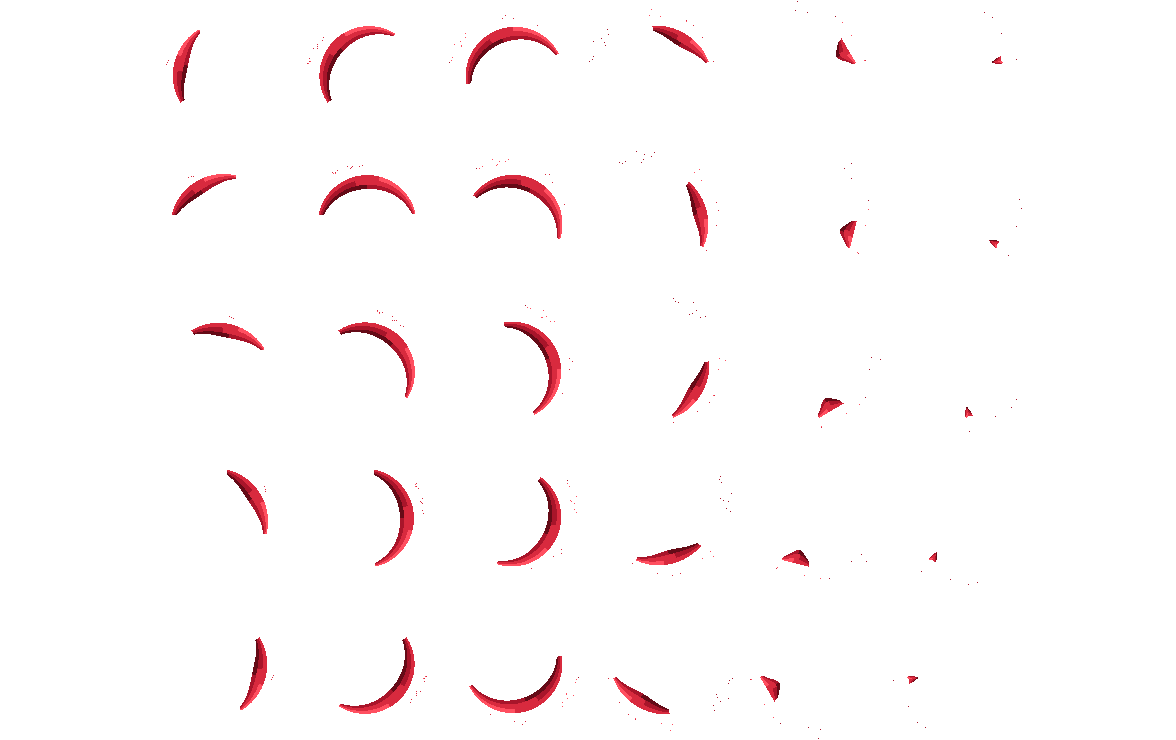
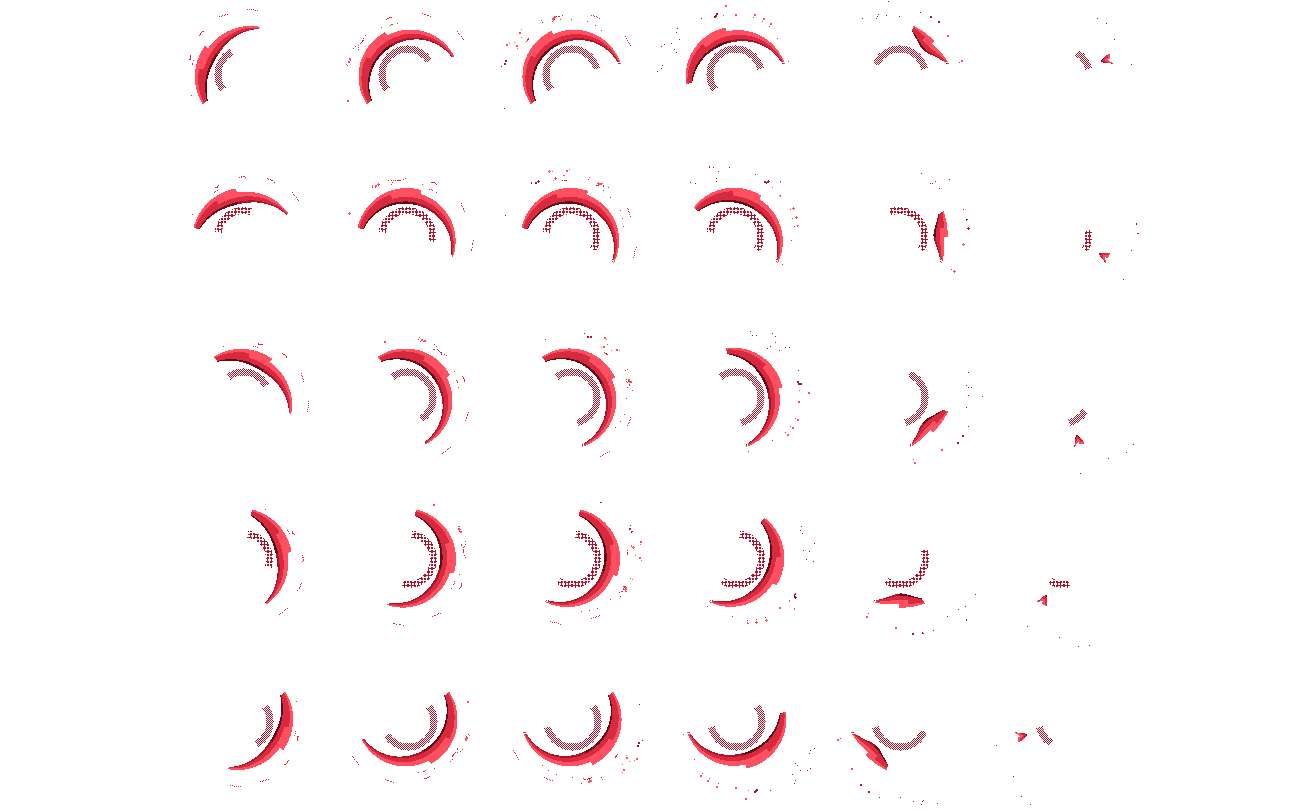
혈검 검기를 굵고 밝은 궤적과 잔상 · 핏방울로 다시 뽑고 맞은 적마다 베인 자리 연출을 더한다
Claude-Session: https://claude.ai/code/session_01Q8g6pZZRKRc2eJ1UxAQnjf

diff --git a/design/effects/pixelfx/blood-job/blood-form.js b/design/effects/pixelfx/blood-job/blood-form.js
@@ -8,6 +8,7 @@
 //   hook   — 혈쇄 갈고리(11월 15일). 0,0 = 쥔 손(form) · 갈고리 머리 뒤끝(head). +x 로 날아간다. form 손에서 갈고리가 생김 · head 날아가는 머리
 //   link   — 사슬 마디 하나. 0,0 = 마디 가운데 · +x 가 사슬 방향. variant 0 둥근 마디 · 1 옆에서 본 마디 · 2 · 3 팽팽한(밝은) 마디
 //   drop   — 사슬이 핏방울로 풀린다(마디 하나 자리에서 아래로 떨어진다)
+//   cut    — 혈검에 맞은 자리(11월 16일). 0,0 = 맞은 자리. 사선 하나가 그어지고 갈라진 자리에서 피가 터진다
 //   core   — 적혈탄 압축 구슬(11월 15일 사용자 "압축되는 거 크기 크게 줄여줘"). 0,0 = 손끝. tier 0 · 1 · 2 마다 더 작고 단단해지고 둘레를 도는 방울이 는다(u = 한 바퀴)
 // 외곽선은 C[6] · 가장 밝은 빛은 C[7] 만 쓴다 — 게임이 이 두 색을 따로 떼어(밝은 외곽 시트) 어두운 연마 색에서도 외곽을 밝게 그린다.
 // 쓰는 법: pixelfx 저장소 src/fx/nature/blood-form.js 로 복사하고 make-form.mjs 로 뽑는다.
@@ -118,42 +119,90 @@ function swordBreak(p, C, u, o) {
 }
 
 /* ── 혈검 궤적 ───────────────────────── */
-// 초승달 — 머리(지금 칼끝)가 a0 → a1 로 지나가고 꼬리가 뒤따라 옅어진다. 바깥 테두리는 밝게, 바깥으로 핏방울이 튄다
+// 초승달 — 머리(지금 칼끝)가 a0 → a1 로 지나가고 꼬리가 뒤따라 옅어진다. 바깥 날은 하얗게 달아오르고, 안쪽에 옅은 잔상 한 겹 ·
+// 머리에는 반짝임 · 바깥으로는 굵은 핏방울이 튀어 떨어진다(11월 16일 사용자 "검기가 밋밋해" — 굵기 · 밝기 · 튀는 피를 늘렸다)
 function crescent(p, C, R, W, a0, a1, u, tailLen, o, big) {
-  const head = lerp(a0, a1, ez(u / 0.7)), tail = lerp(a0, a1, ez((u - tailLen) / 0.7));
+  const head = lerp(a0, a1, ez(u / 0.42)), tail = lerp(a0, a1, ez((u - tailLen) / 0.5));
   if (u > 1) return;
   const lo = Math.min(head, tail), hi = Math.max(head, tail);
-  if (hi - lo < 0.02) return;
-  const fade = 1 - smooth(0.7, 1, u);
-  p.shade(-R - 2, -R - 2, R + 2, R + 2, (x, y, out) => {
-    const d = Math.hypot(x, y), a = Math.atan2(y, x);
-    if (a < lo || a > hi) return;
-    const s = (a - tail) / (head - tail || 1e-6);      // 0 꼬리 · 1 머리
-    const w = W * (0.25 + 0.75 * Math.sin(Math.PI * clamp(s * 0.95 + 0.05))) * (0.4 + 0.6 * fade);
-    if (d > R || d < R - w) return;
-    const v = (d - (R - w)) / w;                       // 0 안 · 1 바깥
-    if (v > 0.82) return C[s > 0.85 ? 7 : 6];
-    if (v > 0.55) return C[s > 0.6 ? 5 : 4];
-    if (v > 0.25) return C[s > 0.4 ? 4 : 3];
-    return s > 0.5 ? C[3] : C[2];
-  });
-  // 바깥으로 튀는 피
-  const n = big ? 16 : 9;
+  const fade = 1 - smooth(0.6, 1, u);
+  if (hi - lo >= 0.02) {
+    // 안쪽 잔상 — 본 궤적보다 조금 늦고 안쪽, 체크 무늬로 듬성듬성
+    const R2 = R - W - 3, tail2 = lerp(a0, a1, ez((u - tailLen * 1.2) / 0.5)), head2 = lerp(a0, a1, ez((u - 0.06) / 0.42));
+    const lo2 = Math.min(head2, tail2), hi2 = Math.max(head2, tail2);
+    p.shade(-R - 3, -R - 3, R + 3, R + 3, (x, y) => {
+      const X = x + 0.5, Y = y + 0.5, d = Math.hypot(X, Y), a = Math.atan2(Y, X);
+      if (a >= lo && a <= hi) {
+        const s = (a - tail) / (head - tail || 1e-6);    // 0 꼬리 · 1 머리
+        const w = W * (0.2 + 0.8 * Math.sin(Math.PI * clamp(s * 0.92 + 0.08))) * (0.45 + 0.55 * fade);
+        if (d <= R + 1 && d >= R - w) {
+          const v = (d - (R - w)) / Math.max(1, w);       // 0 안 · 1 바깥
+          if (d > R) return s > 0.45 ? C[6] : undefined;  // 날 밖 한 칸 — 밝은 외곽
+          if (v > 0.8) return C[s > 0.35 ? 7 : 6];        // 하얗게 달아오른 날
+          if (v > 0.6) return C[s > 0.5 ? 6 : 5];
+          if (v > 0.35) return C[s > 0.3 ? 5 : 4];
+          if (v > 0.12) return C[4];
+          return s > 0.5 ? C[3] : C[2];
+        }
+      }
+      if (a >= lo2 && a <= hi2 && d <= R2 && d >= R2 - Math.max(2, W * 0.35) && ((Math.floor(x) + Math.floor(y)) & 1)) return C[3];
+    });
+    // 머리 반짝임 — 칼끝 자리 십자 빛
+    if (u < 0.75) {
+      const hx = Math.cos(head) * (R - 1), hy = Math.sin(head) * (R - 1), L = big ? 4 : 3;
+      for (let k = -L; k <= L; k++) { p.px(hx + k, hy, Math.abs(k) < 2 ? C[7] : C[6]); p.px(hx, hy + k, Math.abs(k) < 2 ? C[7] : C[6]); }
+    }
+    // 속도선 — 날 바깥에서 머리 쪽으로 짧게 그은 가는 줄
+    for (let i = 0; i < (big ? 4 : 3); i++) {
+      const at = lerp(tail, head, 0.35 + 0.18 * i), r = R + 4 + 3 * i, len = 0.12 + 0.05 * i;
+      if (u > 0.55) break;
+      for (let q = 0; q < 1; q += 0.12) { const aa = at + (head > tail ? 1 : -1) * len * q; p.px(Math.cos(aa) * r, Math.sin(aa) * r, q > 0.6 ? C[6] : C[4]); }
+    }
+  }
+  // 바깥으로 튀는 굵은 피 — 날을 따라 생겨 바깥으로 날다가 아래로 떨어진다
+  const n = big ? 24 : 16;
   for (let i = 0; i < n; i++) {
-    const at = lerp(a0, a1, rand(o.seed, i, 31)), born = clamp((at - a0) / (a1 - a0 || 1e-6)) * 0.55;
+    const at = lerp(a0, a1, rand(o.seed, i, 31)), born = clamp((at - a0) / (a1 - a0 || 1e-6)) * 0.5;
     const age = u - born;
-    if (age <= 0 || age > 0.45) continue;
-    const r = R + 2 + (8 + 10 * rand(o.seed, i, 32)) * age / 0.45 * (big ? 1.4 : 1);
-    const x = Math.cos(at) * r, y = Math.sin(at) * r;
-    p.px(x, y, age < 0.15 ? C[6] : age < 0.3 ? C[5] : C[3]);
-    if (big && age < 0.2) p.px(x + Math.cos(at), y + Math.sin(at), C[4]);
+    if (age <= 0 || age > 0.5) continue;
+    const sp = (12 + 16 * rand(o.seed, i, 32)) * (big ? 1.3 : 1), k = age / 0.5;
+    const r = R + 1 + sp * k;
+    const [gx, gy] = downOf(o.ang || 0), fall = 14 * k * k;
+    const x = Math.cos(at) * r + gx * fall, y = Math.sin(at) * r + gy * fall;
+    const c = k < 0.3 ? C[6] : k < 0.6 ? C[5] : C[3], sz = rand(o.seed, i, 33) < 0.6 && k < 0.7 ? 2 : 1;
+    p.rect(x, y, sz, sz, c);
+    if (k < 0.45) p.px(x - Math.cos(at) * 2, y - Math.sin(at) * 2, C[4]);   // 꼬리
   }
 }
 function arcFx(p, C, u, o) {
   const ph = o.phase;
-  if (ph === "swing1") crescent(p, C, 46, 12, -1.25, 1.05, u, 0.32, o, false);
-  else if (ph === "swing2") crescent(p, C, 44, 11, 1.1, -1.2, u, 0.32, o, false);   // 거꾸로 — 아래에서 위로
-  else crescent(p, C, 50, 17, -2.2, 1.35, u, 0.4, o, true);   // swing3 — 머리 뒤에서 앞으로 크게 내려벤다
+  if (ph === "swing1") crescent(p, C, 48, 16, -1.35, 1.15, u, 0.5, o, false);
+  else if (ph === "swing2") crescent(p, C, 46, 15, 1.2, -1.3, u, 0.5, o, false);   // 거꾸로 — 아래에서 위로
+  else crescent(p, C, 52, 20, -2.2, 1.35, u, 0.55, o, true);   // swing3 — 머리 뒤에서 앞으로 크게 내려벤다
+}
+
+/* ── 혈검 베인 자리(11월 16일) ─────────── */
+// 맞은 적 몸 위에 그어지는 날카로운 사선 하나 + 갈라진 자리에서 터지는 피. 0,0 = 맞은 자리, 사선은 왼쪽 위 → 오른쪽 아래(게임이 좌우로 뒤집는다)
+function cutFx(p, C, u, o) {
+  const L = 13, grow = ez(u / 0.25), thin = 1 - smooth(0.25, 0.7, u);
+  if (thin > 0) {
+    const len = L * grow;
+    for (let k = -len; k <= len; k += 0.5) {
+      const x = k * 0.8, y = k * 0.6, mid = 1 - Math.abs(k) / L;
+      p.px(x, y, mid > 0.5 ? C[7] : C[6]);
+      if (mid > 0.3 && thin > 0.5) { p.px(x + 0.6, y - 0.8, C[6]); p.px(x - 0.6, y + 0.8, C[5]); }
+    }
+  }
+  // 갈라진 자리에서 수직으로 터지는 피
+  for (let i = 0; i < 18; i++) {
+    const age = u - 0.08 - rand(o.seed, i, 151) * 0.12; if (age <= 0) continue;
+    const k = age / 0.75; if (k > 1) continue;
+    const t0 = (rand(o.seed, i, 152) - 0.5) * 2 * L * 0.7, side = i % 2 ? 1 : -1;
+    const sp = 8 + 12 * rand(o.seed, i, 153);
+    const x = t0 * 0.8 + side * 0.6 * sp * k, y = t0 * 0.6 - side * 0.8 * sp * k + 18 * k * k;
+    const c = k < 0.25 ? C[6] : k < 0.55 ? C[5] : C[3];
+    const z = k < 0.6 && i % 2 === 0 ? 2 : 1; p.rect(x, y, z, z, c);
+  }
 }
 
 /* ── 혈막 ───────────────────────────── */
@@ -457,4 +506,5 @@ export function draw(p, t, o) {
   else if (o.part === "link") linkFx(p, C, o);
   else if (o.part === "drop") dropFx(p, C, u, o);
   else if (o.part === "core") coreFx(p, C, u, o);
+  else if (o.part === "cut") cutFx(p, C, u, o);
 }

diff --git a/src/game/bloodJobPxData.js b/src/game/bloodJobPxData.js
@@ -30,9 +30,9 @@ export const BLOOD_JOB_PX = {
   bj_sw_form: { w: 152, h: 152, cols: 8, n: 8, rows: 16, cx: 76, cy: 76, rim: 1 },   // 혈검 생성 — 모이는 피 → 손잡이 → 칼날(줄 = 16방향, 0 오른쪽부터 시계 방향 22.5도)
   bj_sw_hold: { w: 142, h: 142, cols: 4, n: 4, rows: 16, cx: 71, cy: 71, loop: 1, rim: 1 },   // 든 혈검 — 칼날 위 빛이 흐른다(반복, 16방향)
   bj_sw_break: { w: 160, h: 158, cols: 8, n: 8, rows: 16, cx: 80, cy: 78, rim: 1 },   // 혈검 풀림 — 칼끝부터 피로 흘러내린다(16방향)
-  bj_arc1: { w: 113, h: 124, cols: 6, n: 6, rows: 5, cx: 48, cy: 65, rim: 1 },   // 혈검 1타 궤적 — 위에서 아래로(줄 = -90 · -45 · 0 · 45 · 90도, 왼쪽은 좌우 뒤집기)
-  bj_arc2: { w: 110, h: 120, cols: 6, n: 6, rows: 5, cx: 50, cy: 60, rim: 1 },   // 혈검 2타 궤적 — 아래에서 위로
-  bj_arc3: { w: 147, h: 148, cols: 8, n: 8, rows: 5, cx: 73, cy: 74, rim: 1 },   // 혈검 3타 — 크게 내려베기
+  bj_arc1: { w: 131, h: 147, cols: 8, n: 8, rows: 5, cx: 58, cy: 63, rim: 1 },   // 혈검 1타 궤적 — 위에서 아래로(줄 = -90 · -45 · 0 · 45 · 90도, 왼쪽은 좌우 뒤집기)
+  bj_arc2: { w: 128, h: 141, cols: 8, n: 8, rows: 5, cx: 58, cy: 60, rim: 1 },   // 혈검 2타 궤적 — 아래에서 위로
+  bj_arc3: { w: 164, h: 162, cols: 8, n: 8, rows: 5, cx: 80, cy: 74, rim: 1 },   // 혈검 3타 — 크게 내려베기
   bj_vl_form: { w: 121, h: 83, cols: 8, n: 8, cx: 59, cy: 41, rim: 1 },   // 혈막 생성 — 피가 모여 휘어진 방패판 두 겹으로 굳는다
   bj_vl_hold: { w: 70, h: 62, cols: 6, n: 6, cx: 35, cy: 31, loop: 1, rim: 1 },   // 혈막 유지(반복 — 안쪽 겹이 천천히 돈다)
   bj_vl_hit: { w: 90, h: 96, cols: 8, n: 8, rows: 5, cx: 35, cy: 48, rim: 1 },   // 혈막 피격 — 맞은 쪽 판이 움푹 · 파문(줄 = 맞은 방향 5)
@@ -47,6 +47,7 @@ export const BLOOD_JOB_PX = {
   bj_hk_head: { w: 50, h: 50, cols: 4, n: 4, rows: 16, cx: 25, cy: 25, loop: 1, rim: 1 },   // 날아가는 갈고리 머리(빛이 자루를 따라 흐른다)
   bj_hk_link: { w: 12, h: 12, cols: 4, n: 4, rows: 16, cx: 6, cy: 6, rim: 1 },   // 사슬 마디 — 칸 0 둥근 · 1 옆 · 2 · 3 팽팽한(밝은)
   bj_hk_drop: { w: 11, h: 37, cols: 6, n: 6, cx: 6, cy: 5, rim: 1 },   // 마디가 핏방울로 풀려 떨어진다
+  bj_cut: { w: 32, h: 40, cols: 8, n: 8, cx: 17, cy: 9, rim: 1 },   // 11월 16일 — 혈검에 맞은 자리: 사선이 그어지고 피가 터진다(맞은 적마다, 2배)
   /* 11월 15일 — 적혈탄 압축 구슬(blood-form.js core). 예전 bj_orb · bj_gather 차징(지름 80px 넘음)을 대신한다. 2배로 그려 화면 지름 약 32px */
   bj_core: { w: 20, h: 16, cols: 8, n: 8, rows: 3, cx: 10, cy: 9, loop: 1, rim: 1 },   // 줄 = 단계 0 · 1 · 2(갈수록 작고 단단 · 도는 방울이 는다), 칸 = 한 바퀴
   bj_fall: { w: 143, h: 135, cols: 4, n: 10, cx: 71, cy: 50 },            // holy/feather-burst — 탈진: 혈액 갑주 조각이 흩날려 떨어진다

diff --git a/src/game/updates.js b/src/game/updates.js
@@ -5,6 +5,7 @@
 export const RPG_NOTICE = { id: "2026-10-254", notes: ["2026-10-254", "2026-10-253"] };
 
 export const UPDATES = [
+  { id: "2026-10-266", date: "11월 16일", items: ["혈검으로 벨 때의 검기가 더 굵고 밝아졌습니다. 날 끝이 하얗게 빛나고 안쪽에 잔상이 남습니다.", "벨 때 핏방울이 더 크게 튑니다. 맞은 적 몸 위에는 사선이 그어지고 피가 터집니다.", "피해 · 범위 · 50초 규칙은 그대로입니다."] },
   { id: "2026-10-265", date: "11월 16일", items: ["적혈탄 대기가 절반으로 줄었습니다. 기본 1초 · 1단계 1.5초 · 2단계 2.5초입니다.", "적혈탄은 누르고 있는 동안 모으기만 합니다. 키를 떼야 쏩니다. 1.2초가 지나도 저절로 쏘지 않고 2단계로 기다립니다.", "모을 때 손끝에 맺히는 피 구슬이 훨씬 작아졌습니다."] },
   { id: "2026-10-264", date: "11월 15일", items: ["BLOOD-001 혈량이 직업 레벨을 따라 커집니다. 처음 혈량은 100이고 다섯 레벨마다 안정 한계가 5씩 오릅니다.", "새 스킬 둘이 생겼습니다. 15레벨 혈류 파동은 고른 자리에서 피의 물결이 퍼집니다. 20레벨 혈쇄 갈고리는 적에게 사슬을 걸어 그 앞으로 끌려갑니다.", "적혈탄 · 혈수 강타의 비용과 대기 시간이 줄었습니다. 혈수 강타는 5레벨, 혈검 · 혈막은 10레벨에 열립니다.", "혈량이 30 아래면 1초마다 5씩 찹니다. 결투 · 사냥터 PvP 에서는 차지 않습니다.", "자세한 수치는 패치노트 책에 있습니다."] },
   { id: "2026-10-263", date: "11월 15일", items: ["혈검이 바뀌었습니다. 누르면 피가 손으로 모여 손잡이부터 칼날까지 검이 만들어집니다.", "다 만들어진 검은 50초 동안 손에 듭니다. 평타를 새로 누를 때마다 횟수 제한 없이 한 번씩 벱니다. 위아래를 번갈아 벱니다.", "누르고 있던 평타나 자동 평타로는 베지 않습니다. 혈검 대기는 6초이고 혈막 대기와 따로 셉니다.", "혈막은 휘어진 방패판으로 굳고 맞은 쪽이 움푹 들어갑니다. 혈수 강타는 손을 만든 뒤 주먹을 쥐고 내려칩니다.", "BLOOD-001 의 오른쪽 스킬 판이 아이콘 칸으로 바뀌었습니다. 칸에 마우스를 올리면 아래 칸에 이름과 비용이 보입니다."] },

diff --git a/src/game/bookData.js b/src/game/bookData.js
@@ -36,6 +36,8 @@ const dropAvg = DROP_ROLL.reduce((n, [c, w]) => n + c * w, 0) / total;
 // 10월 26일 (7) 때의 400~800 체력 — 구역 시작 레벨마다(끝 하나 더) · 보스. 같은 날 (8)에서 낮춰 책에는 그때 값을 적는다
 const DEEP_WAS = { mob: [226100, 279650, 339150, 404600, 476000, 553350, 636650, 725900, 821100], boss: [3689000, 4462500, 5355000, 6426000, 7616000, 8925000, 10412500, 11900000] };
 export const PATCH_BOOKS = [
+  { id: "patch-2026-11-16-sword-fx", title: "패치노트 · 11월 16일 (2)", sub: "혈검 · 검기 연출", color: "#8a1f2e",
+    pages: [{ h: "혈검 검기", p: ["베기 궤적이 더 굵고 길어졌습니다. 날 끝이 하얗게 달아오르고 안쪽에 옅은 잔상이 한 겹 남습니다.", "칼끝에 반짝임과 속도선이 생기고 핏방울이 더 크게 튀어 떨어집니다.", "맞은 적마다 몸 위에 사선이 그어지고 갈라진 자리에서 피가 터집니다.", "연출 시간 0.24초 → 0.3초. 피해 · 범위 · 50초 규칙은 그대로입니다."] }] },
   { id: "patch-2026-11-16-red-shot", title: "패치노트 · 11월 16일", sub: "적혈탄 · 떼면 발사", color: "#8a1f2e",
     pages: [{ h: "적혈탄", p: ["대기: 쏜 단계마다 2 · 3 · 5초 → 1 · 1.5 · 2.5초.", "누르고 있는 동안은 모으기만 합니다. 키(터치는 손가락)를 떼면 그때 모인 단계로 쏩니다. 예전에는 1.2초에 저절로 쐈습니다.", "모을 때 손끝 구슬이 지름 약 60px → 약 22px 로 작아졌습니다. 단계가 오를수록 더 작고 단단해집니다.", "비용 · 피해 · 차징 시간(0.6 · 1.2초)은 그대로입니다."] }] },
   { id: "patch-2026-11-15-blood-rework", title: "패치노트 · 11월 15일 (3)", sub: "BLOOD-001 · 혈량 · 새 스킬", color: "#8a1f2e",

diff --git a/src/game/bloodJobArt.js b/src/game/bloodJobArt.js
@@ -206,12 +206,14 @@ function slam(ctx, f, t, sq) {
   void sq;
 }
 // 혈검 베기 궤적 — 1타 위 → 아래 · 2타 아래 → 위 · 3타 크게 내려베기. 몸 가운데 둘레 실제 반경(반경 1px 예고선은 옅게)
-const ARC_R = 47, ARC_K = 2;                           // 궤적 그림 반지름(1배 픽셀) · 배수 — 몸에 붙어 보이게 2배(반지름 약 94). 실제 반경은 1px 예고선
+const ARC_R = 47, ARC_K = 2, CUT_K = 2;                // 궤적 그림 반지름(1배 픽셀) · 배수 — 몸에 붙어 보이게 2배(반지름 약 94). 실제 반경은 1px 예고선. CUT_K 베인 자리 배수
 function sword(ctx, f, t, sq) {
   const P = pal(f), ax = f.ax || 1, ay = f.ay || 0, R = f.r || 140, [row, flip] = row5(Math.atan2(ay * sq, ax));
   const name = f.i === 2 ? "bj_arc3" : f.i === 1 ? "bj_arc2" : "bj_arc1";
   formCell(ctx, name, row, Math.min(SH[name].n - 1, 1 + Math.floor(clamp(t / f.life) * (SH[name].n - 1))), f.x, f.y - 34, ARC_K * Math.min(1.5, R / 140), 1, f.c, flip);
   ring(ctx, f.x, f.y, R, sq, P.rim, 0.22 * (1 - clamp(t / f.life)), 1, 4);
+  // 베인 자리 — 맞은 적 몸 위에 사선 + 터지는 피(11월 16일). 칼이 지나간 뒤 조금 늦게 그어진다
+  if (f.hs) for (const [hx, hy] of f.hs) { const v = clamp((t - 0.04) / (f.life - 0.04)); if (t >= 0.04) formCell(ctx, "bj_cut", 0, onceI("bj_cut", v), hx, hy - 36, CUT_K, 1, f.c, flip !== (f.i === 1)); }
 }
 // 혈검이 풀린다 — 손에 들려 있던 자리에서 칼끝부터 피로 흘러내린다
 const bladeSeen = new Map();                          // pi → { x, y, a, at } — 마지막으로 그린 손 · 칼 방향(drawBloodBlade 가 적는다)

diff --git a/src/game/bloodJob.js b/src/game/bloodJob.js
@@ -444,7 +444,9 @@ function swordHit(E, g, h, sw) {
     if (!E.dummy(o)) hit = 1;
   }
   h.swing = 0.22;
-  E.fx(g, h.map, { kind: "sk_bj_sword", x: h.x, y: h.y, ax: sw.ax, ay: sw.ay, r: sw.R, i: i % 2, pi: h.pi, t: 0.24, life: 0.24, snd: list.length ? "bloodHit" : "slash" });
+  // hs — 베인 자리 연출용 맞은 자리(그림만, 4명까지) · 11월 16일 사용자 "검기가 밋밋해" — 연출을 0.24 → 0.3초로 늘렸다(판정은 그대로)
+  const hs = list.slice(0, 4).map((o) => [Math.round(o.x), Math.round(o.y)]);
+  E.fx(g, h.map, { kind: "sk_bj_sword", x: h.x, y: h.y, ax: sw.ax, ay: sw.ay, r: sw.R, i: i % 2, pi: h.pi, t: 0.3, life: 0.3, ...(hs.length ? { hs } : {}), snd: list.length ? "bloodHit" : "slash" });
   if (hit) sw.xp = 1;
 }
 // 혈검 끝 — 칼날이 피로 풀린다. 형상화 경험치는 유효 적중이 있었으면 시전당 한 번
